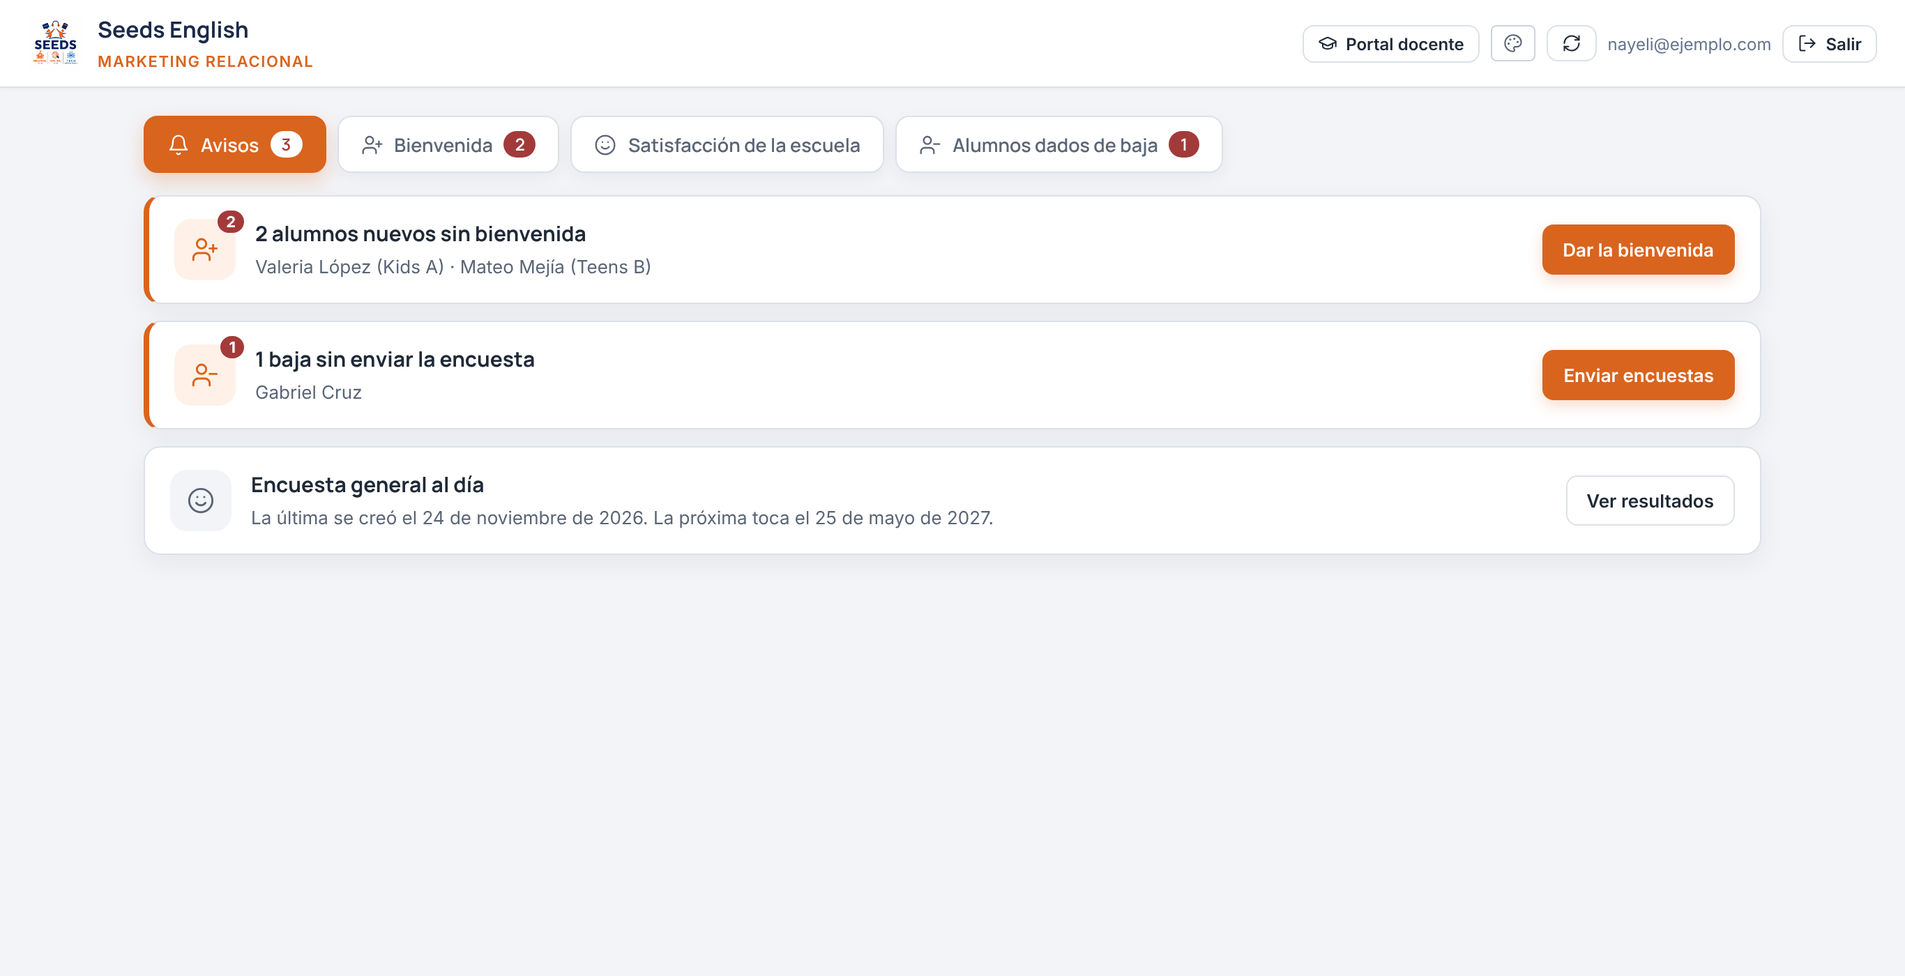
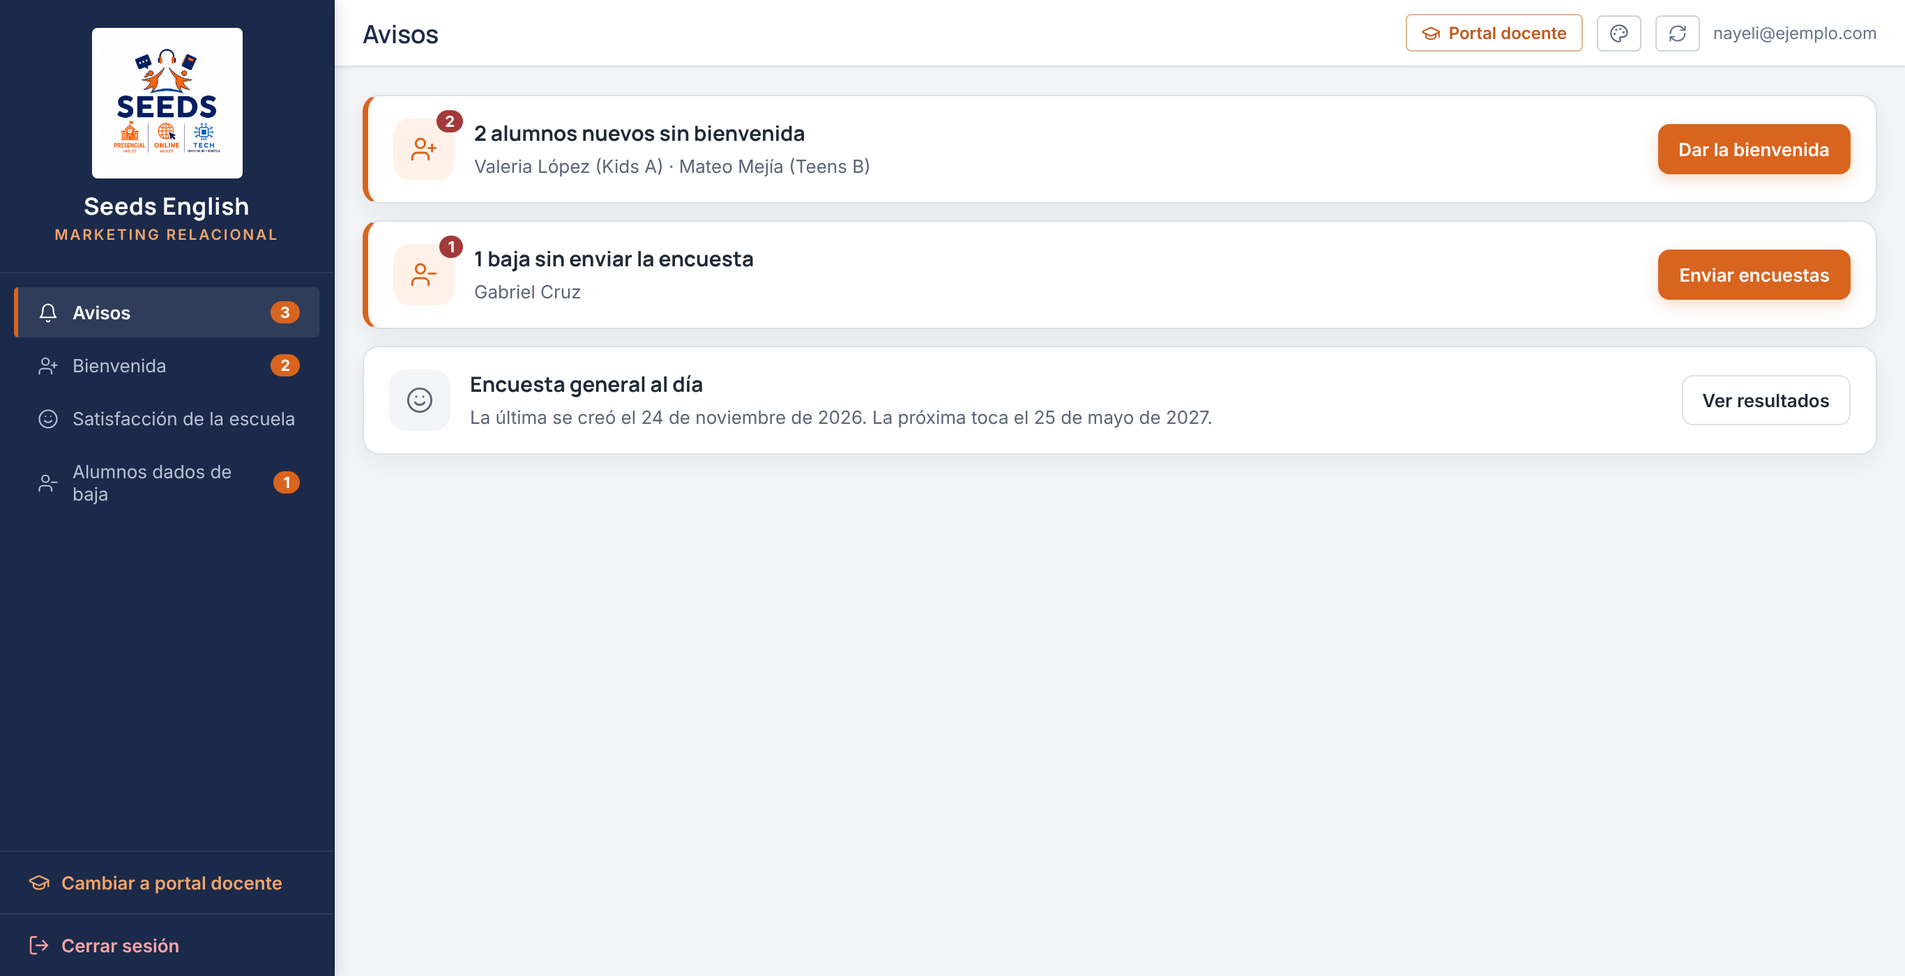
Marketing y portal docente con el mismo diseño de administración; encuestas con membrete de reportes
Claude-Session: https://claude.ai/code/session_01AxHPX21L8H8cCp28DDg5nG

diff --git a/src/marketing.jsx b/src/marketing.jsx
@@ -14,13 +14,12 @@
 // ════════════════════════════════════════════════════════════
 import { useState, useEffect, useMemo, useCallback } from "react";
 import { supabase } from "./supabaseClient";
-import { LOGO_SEEDS } from "./logo";
 import { BarraDescargas } from "./documentoFormal";
 import { useMarca } from "./marca";
 import { SelectorFondo } from "./fondo";
-import { EncuestasDesercion, useEncuestas, reporteMatricula, linkWhatsApp } from "./desercion";
+import { MembreteEncuesta, EncuestasDesercion, useEncuestas, reporteMatricula, linkWhatsApp } from "./desercion";
 import { DocenteApp } from "./docentes";
-import { LogOut, RefreshCw, GraduationCap, UserMinus, UserPlus, Smile, Plus, X, Bell } from "lucide-react";
+import { LogOut, RefreshCw, GraduationCap, UserMinus, UserPlus, Smile, Plus, Bell, Menu as MenuIcon, ChevronLeft as AtrasIcon } from "lucide-react";
 import { Avisos, Bienvenida, useMarketingDatos, nuevosSinBienvenida, DIAS_ENCUESTA_GENERAL } from "./marketingAvisos";
 import "./resumenMes.css";
 import "./desercion.css";
@@ -88,28 +87,39 @@ function useSatisfaccion() {
 }
 
 // ── Panel principal (lo usan Marketing y administración) ──
-export function MarketingPanel({ data, showToast }) {
-  const [tab, setTab] = useState("avisos");
+// Estado compartido de Marketing (avisos, bienvenidas, encuestas) y conteos
+export function useMarketingEstado(data) {
   const encuestas = useEncuestas();
   const md = useMarketingDatos();
-  const irA = (t) => { setTab(t); if (t === "avisos") { md.cargar(); encuestas.recargar(); } };
-  const bajas = data.alumnos.filter((a) => a.estado === "inactivo").length;
   const nNuevos = md.falta ? 0 : nuevosSinBienvenida(data, md).length;
   const nBajas = (encuestas.lista || []).filter((e) => !e.enviada_en && !e.respondida_en).length;
-  const nAvisos = nNuevos + nBajas + (md.listo && (!md.ultimaEncuesta || Date.now() - new Date(md.ultimaEncuesta).getTime() >= DIAS_ENCUESTA_GENERAL * 86400000) ? 1 : 0);
-  const TABS = [
-    ["avisos", Bell, "Avisos", nAvisos, true],
-    ["bienvenida", UserPlus, "Bienvenida", nNuevos, true],
-    ["satisfaccion", Smile, "Satisfacción de la escuela", 0],
-    ["bajas", UserMinus, "Alumnos dados de baja", nBajas || bajas, nBajas > 0],
-  ];
+  const tocaGeneral = md.listo && (!md.ultimaEncuesta || Date.now() - new Date(md.ultimaEncuesta).getTime() >= DIAS_ENCUESTA_GENERAL * 86400000);
+  const recargar = () => { md.cargar(); encuestas.recargar(); };
+  return { encuestas, md, recargar, cuentas: { avisos: nNuevos + nBajas + (tocaGeneral ? 1 : 0), bienvenida: nNuevos, bajas: nBajas, satisfaccion: 0 } };
+}
+
+export const PAGINAS_MARKETING = [
+  { id: "avisos", label: "Avisos", icon: Bell },
+  { id: "bienvenida", label: "Bienvenida", icon: UserPlus },
+  { id: "satisfaccion", label: "Satisfacción de la escuela", icon: Smile },
+  { id: "bajas", label: "Alumnos dados de baja", icon: UserMinus },
+];
+
+// Panel de Marketing. Administración lo ve con pestañas arriba; la cuenta de
+// Marketing lo ve con el menú lateral (tab y onTab vienen de MarketingApp).
+export function MarketingPanel({ data, showToast, estado, tab: tabExt, onTab }) {
+  const [tabInt, setTabInt] = useState("avisos");
+  const propio = useMarketingEstado(data);
+  const { encuestas, md, cuentas, recargar } = estado || propio;
+  const tab = tabExt || tabInt;
+  const irA = (t) => { (onTab || setTabInt)(t); if (t === "avisos") recargar(); };
   return (
     <div className="mk">
-      <div className="mk-tabs" role="tablist">
-        {TABS.map(([id, I, t, n, alerta]) => (
-          <button key={id} role="tab" aria-selected={tab === id} className={tab === id ? "on" : ""} onClick={() => irA(id)}><I size={16} />{t}{n > 0 && <span className={"mk-cont" + (alerta ? " alerta" : "")}>{n}</span>}</button>
+      {!tabExt && <div className="mk-tabs" role="tablist">
+        {PAGINAS_MARKETING.map(({ id, icon: I, label }) => (
+          <button key={id} role="tab" aria-selected={tab === id} className={tab === id ? "on" : ""} onClick={() => irA(id)}><I size={16} />{label}{cuentas[id] > 0 && <span className="mk-cont alerta">{cuentas[id]}</span>}</button>
         ))}
-      </div>
+      </div>}
       {tab === "avisos" && <Avisos data={data} md={md} encuestas={encuestas} irA={irA} />}
       {tab === "bienvenida" && <Bienvenida data={data} md={md} showToast={showToast} />}
       {tab === "bajas" && (
@@ -388,11 +398,23 @@ export function reporteSatisfaccion(camp, filas, data) {
 }
 
 // ── App propia del rol Marketing relacional ──
+// Mismo diseño que el panel de administración: menú lateral con el logo,
+// cabecera con título, fondo, actualizar y correo, y menú deslizable en celular.
 export function MarketingApp({ session, perfil }) {
   const marca = useMarca();
   const [datos, setDatos] = useState(null);
   const [vistaDocente, setVistaDocente] = useState(false);
   const [toast, setToast] = useState(null);
+  const [menu, setMenu] = useState(false);
+  const [page, setPageRaw] = useState("avisos");
+  const escritorio = typeof window !== "undefined" && window.innerWidth > 768;
+  // Historial: botón "atrás" del teléfono vuelve a la página anterior
+  const setPage = useCallback((p) => { setPageRaw((act) => { if (p !== act) history.pushState({ seedsMk: p }, ""); return p; }); }, []);
+  useEffect(() => {
+    if (!history.state?.seedsMk) history.replaceState({ seedsMk: "avisos" }, "");
+    const volver = (e) => setPageRaw(e.state?.seedsMk || "avisos");
+    window.addEventListener("popstate", volver); return () => window.removeEventListener("popstate", volver);
+  }, []);
   const avisar = (msg, type = "success") => { setToast({ msg, type }); setTimeout(() => setToast(null), 3500); };
   const cargar = useCallback(async () => {
     const [s, a, p] = await Promise.all([
@@ -405,24 +427,51 @@ export function MarketingApp({ session, perfil }) {
     setDatos({ secciones: s.data || [], alumnos: a.data || [], padres: p.data || [] });
   }, []);
   useEffect(() => { cargar(); }, [cargar]);
+  const estado = useMarketingEstado(datos || { alumnos: [], secciones: [], padres: [] });
   if (vistaDocente) return <DocenteApp session={session} perfil={perfil} onVolver={() => setVistaDocente(false)} />;
+  const actual = PAGINAS_MARKETING.find((n) => n.id === page) || PAGINAS_MARKETING[0];
+  const ir = (id) => { setPage(id); setMenu(false); if (id === "avisos") estado.recargar(); };
   return (
-    <div className="mk-app">
-      <header className="vidrio-barra mk-barra">
-        <div className="mk-marca">
-          <img src={marca.logoSrc} alt="" />
-          <div><b>{marca.nombreO("Seeds English")}</b><span>Marketing relacional</span></div>
+    <div style={{ display: "flex", height: "100vh", background: "transparent" }}>
+      {menu && <div onClick={() => setMenu(false)} style={{ position: "fixed", inset: 0, background: "rgba(15,23,42,0.25)", backdropFilter: "blur(4px)", WebkitBackdropFilter: "blur(4px)", zIndex: 40 }} />}
+      <aside className="vidrio-menu" style={{ position: "fixed", left: menu ? 10 : -280, top: 10, bottom: 10, width: 240, color: "#fff", zIndex: 50, transition: "left 0.25s cubic-bezier(.2,.8,.2,1)", display: "flex", flexDirection: "column", borderRadius: 6, overflow: "hidden", ...(escritorio ? { position: "relative", left: 0, top: 0, bottom: 0, margin: 0, borderRadius: 0 } : {}) }}>
+        <div style={{ padding: "20px 16px", borderBottom: "1px solid rgba(255,255,255,.08)", display: "flex", flexDirection: "column", alignItems: "center", gap: 8 }}>
+          <div style={{ background: "#fff", borderRadius: 4, padding: 6 }}><img src={marca.logoSrc} alt={marca.nombreO("Seeds English")} style={{ width: 96, height: 96, objectFit: "contain", display: "block" }} /></div>
+          <div style={{ textAlign: "center" }}>
+            <div className="titulo-marca" style={{ fontWeight: 700, fontSize: 17, color: "#fff", letterSpacing: .3 }}>{marca.nombreO("Seeds English")}</div>
+            <div style={{ fontSize: 10.5, color: "#F0A46A", textTransform: "uppercase", letterSpacing: 1.4, marginTop: 3, fontWeight: 600 }}>Marketing relacional</div>
+          </div>
         </div>
-        <div className="mk-barra-der">
-          {perfil.maestro_id && <button className="dm-btn sec chico" onClick={() => setVistaDocente(true)}><GraduationCap size={14} />Portal docente</button>}
-          <SelectorFondo />
-          <button className="dm-btn sec chico" onClick={cargar} title="Actualizar" aria-label="Actualizar"><RefreshCw size={14} /></button>
-          <div className="hide-mobile mk-quien">{session.user.email}</div>
-          <button className="dm-btn sec chico" onClick={() => supabase.auth.signOut()}><LogOut size={14} />Salir</button>
-        </div>
-      </header>
-      <main className="mk-main">{datos ? <MarketingPanel data={datos} showToast={avisar} /> : <p className="dm-nota">Cargando…</p>}</main>
-      {toast && <div className={"mk-toast " + toast.type}>{toast.msg}<button onClick={() => setToast(null)} aria-label="Cerrar"><X size={14} /></button></div>}
+        <nav style={{ flex: 1, padding: "10px 10px", overflowY: "auto" }}>
+          {PAGINAS_MARKETING.map((n) => { const Icon = n.icon; const a = page === n.id; const c = estado.cuentas[n.id]; return (
+            <button key={n.id} className={"menu-item" + (a ? " activo" : "")} onClick={() => ir(n.id)} style={{ display: "flex", alignItems: "center", gap: 10, width: "100%", padding: "10px 14px", marginBottom: 2, border: "none", borderLeft: a ? "3px solid #D9641E" : "3px solid transparent", borderRadius: 3, cursor: "pointer", background: a ? "rgba(255,255,255,.09)" : "transparent", color: a ? "#fff" : "#B8C2D3", fontSize: 13, fontWeight: a ? 600 : 400, textAlign: "left", fontFamily: "inherit" }}>
+              <Icon size={15} /><span style={{ flex: 1 }}>{n.label}</span>{c > 0 && <span className="mk-menu-cont">{c}</span>}
+            </button>
+          ); })}
+        </nav>
+        {perfil.maestro_id && <button className="menu-vista-docente" onClick={() => { setMenu(false); setVistaDocente(true); }} style={{ display: "flex", alignItems: "center", gap: 8, padding: "14px 20px", border: "none", borderTop: "1px solid rgba(255,255,255,.08)", background: "transparent", color: "#F0A46A", cursor: "pointer", fontSize: 13, fontWeight: 600, fontFamily: "inherit" }}><GraduationCap size={16} />Cambiar a portal docente</button>}
+        <button onClick={() => supabase.auth.signOut()} style={{ display: "flex", alignItems: "center", gap: 8, padding: "14px 20px", border: "none", borderTop: "1px solid rgba(255,255,255,.08)", background: "transparent", color: "#FCA5A5", cursor: "pointer", fontSize: 13, fontFamily: "inherit" }}><LogOut size={16} />Cerrar sesión</button>
+      </aside>
+      <main style={{ flex: 1, display: "flex", flexDirection: "column", minWidth: 0 }}>
+        <header className="vidrio-barra barra-app" style={{ padding: "10px 20px", margin: 0, borderRadius: 0, display: "flex", alignItems: "center", justifyContent: "space-between", flexShrink: 0 }}>
+          <div style={{ display: "flex", alignItems: "center", gap: 12 }}>
+            {!escritorio && page !== "avisos" && <button onClick={() => history.back()} title="Atrás" aria-label="Atrás" className="boton-atras"><AtrasIcon size={20} /></button>}
+            {!escritorio && <button onClick={() => setMenu(true)} aria-label="Abrir menú" title="Menú" className="boton-menu"><MenuIcon size={22} /></button>}
+            <h1 className="titulo-barra" style={{ fontSize: 18, fontWeight: 600, color: "#1B2A4A", margin: 0 }}>{actual.label}</h1>
+          </div>
+          <div style={{ display: "flex", alignItems: "center", gap: 10 }}>
+            {perfil.maestro_id && <button className="boton-vista-docente" onClick={() => setVistaDocente(true)} title="Cambiar al portal docente" aria-label="Portal docente" style={{ display: "flex", alignItems: "center", gap: 6, background: "#fff", border: "1px solid #E7B48F", borderRadius: 4, cursor: "pointer", padding: "5px 10px", color: "#C2571A", fontSize: 12, fontWeight: 600, fontFamily: "inherit" }}><GraduationCap size={14} /><span className="txt-vista-docente">Portal docente</span></button>}
+            <SelectorFondo />
+            <button className="boton-refrescar" onClick={() => { cargar(); estado.recargar(); avisar("Datos actualizados"); }} title="Refrescar datos" aria-label="Refrescar datos" style={{ background: "#fff", border: "1px solid #CDD3DC", borderRadius: 4, cursor: "pointer", padding: "5px 8px", display: "flex", alignItems: "center" }}><RefreshCw size={14} color="#64748B" /></button>
+            <div style={{ fontSize: 12, color: "#64748B" }} className="hide-mobile">{session.user.email}</div>
+          </div>
+        </header>
+        <div style={{ flex: 1, overflow: "auto", padding: 20 }}>{datos ? <MarketingPanel data={datos} showToast={avisar} estado={estado} tab={actual.id} onTab={ir} /> : <p className="dm-nota">Cargando…</p>}</div>
+      </main>
+      {toast && <div className="vidrio-ahumado aviso-flotante" role="status">
+        <span className="aviso-icono" style={{ background: toast.type === "success" ? "#10B981" : "#EF4444" }}>{toast.type === "success" ? "✓" : "!"}</span>
+        <span>{toast.msg}</span>
+      </div>}
     </div>
   );
 }
@@ -471,7 +520,7 @@ export function SatisfaccionPublica({ token }) {
   return (
     <div className="ep">
       <div className="ep-tarjeta">
-        <div className="ep-marca"><img src={LOGO_SEEDS} alt="" /><div><b>Seeds English</b><span>Encuesta de satisfacción</span></div></div>
+        <MembreteEncuesta titulo="Encuesta de satisfacción" />
         {cuerpo}
       </div>
     </div>

diff --git a/src/docentes.jsx b/src/docentes.jsx
@@ -11,6 +11,8 @@ import { ParteMensual } from "./parteMensual";
 import { useRecorrido, Recorrido, BotonAyuda, PASOS_DOCENTE } from "./recorrido";
 import { useModulos } from "./modulos";
 import { useMarca } from "./marca";
+import "./navegacion.css";
+import "./inicioSoft.css";
 
 // Pestañas del portal docente (administración puede cambiarles el nombre en Sistema y respaldos)
 export const PESTANAS_DOCENTE = [
@@ -188,7 +190,7 @@ export function DocenteApp({ session, perfil, onVolver }) {
       {menu && <div onClick={() => setMenu(false)} style={{ position: "fixed", inset: 0, background: "rgba(15,23,42,0.25)", backdropFilter: "blur(4px)", WebkitBackdropFilter: "blur(4px)", zIndex: 40 }} />}
       <aside className="vidrio-menu" style={{ position: "fixed", left: menu ? 10 : -280, top: 10, bottom: 10, width: 240, color: "#fff", zIndex: 50, transition: "left 0.25s cubic-bezier(.2,.8,.2,1)", display: "flex", flexDirection: "column", borderRadius: 6, overflow: "hidden", ...(escritorio ? { position: "relative", left: 0, top: 0, bottom: 0, margin: 0, borderRadius: 0 } : {}) }}>
         <div style={{ padding: "20px 16px", borderBottom: "1px solid rgba(255,255,255,.08)", display: "flex", flexDirection: "column", alignItems: "center", gap: 8 }}>
-          <div style={{ background: "#fff", borderRadius: 4, padding: 6 }}><img src={marca.logoSrc} alt={marca.nombreO("Seeds English")} style={{ width: 88, height: 88, objectFit: "contain" }} /></div>
+          <div style={{ background: "#fff", borderRadius: 4, padding: 6 }}><img src={marca.logoSrc} alt={marca.nombreO("Seeds English")} style={{ width: 96, height: 96, objectFit: "contain", display: "block" }} /></div>
           <div style={{ textAlign: "center" }}>
             <div className="titulo-marca" style={{ fontWeight: 700, fontSize: 17, color: "#fff", letterSpacing: .3 }}>{marca.nombreO("Seeds English")}</div>
             <div style={{ fontSize: 10.5, color: "#F0A46A", textTransform: "uppercase", letterSpacing: 1.4, marginTop: 3, fontWeight: 600 }}>Portal docente</div>
@@ -250,19 +252,25 @@ function InicioDocente({ datos, setPage }) {
     { id: "reflections", t: "Escribir reflection", d: "Anota el avance o la conducta de un alumno", icon: MessageSquare },
     { id: "solicitudes", t: "Hacer una solicitud", d: "Pide algo a administración", icon: Inbox },
   ];
+  // Mismas tarjetas Soft UI que las categorías del panel de administración
   return (<div>
-    <div style={{ ...card, background: "#1B2A4A", color: "#fff", border: "none", borderTop: "3px solid #D9641E" }}>
-      <div style={{ fontSize: 12, color: "#FDBA74", fontWeight: 700, letterSpacing: 1, textTransform: "uppercase" }}>Bienvenido</div>
-      <div style={{ fontSize: 22, fontWeight: 800, marginTop: 2 }}>{datos.maestro?.nombre}</div>
-      <div style={{ fontSize: 13, color: "#CBD5E1", marginTop: 4 }}>{datos.secciones.length} {datos.secciones.length === 1 ? "grupo" : "grupos"} · {activos.length} alumnos activos</div>
-    </div>
-    <div style={{ display: "grid", gridTemplateColumns: "repeat(auto-fit,minmax(220px,1fr))", gap: 12, marginBottom: 16 }}>
-      {accesos.map((a) => { const Icon = a.icon; return (
-        <button key={a.id} onClick={() => setPage(a.id)} style={{ ...card, margin: 0, textAlign: "left", cursor: "pointer", display: "flex", gap: 12, alignItems: "center", fontFamily: "inherit" }}>
-          <div style={{ background: "#FFF7ED", borderRadius: 10, padding: 10 }}><Icon size={22} color={NAR} /></div>
-          <div><div style={{ fontSize: 14, fontWeight: 700, color: "#1E293B" }}>{a.t}</div><div style={{ fontSize: 12, color: "#64748B" }}>{a.d}</div></div>
-        </button>
-      ); })}
+    <div className="nav-pagina" style={{ padding: 0 }}>
+      <header className="nav-encabezado">
+        <div className="nav-eyebrow"><Home size={14} />Portal docente · {datos.secciones.length} {datos.secciones.length === 1 ? "grupo" : "grupos"} · {activos.length} alumnos activos</div>
+        <h2 className="nav-titulo">Hola, {(datos.maestro?.nombre || "").split(" ")[0]}</h2>
+        <p className="nav-intro">Todo lo de tus clases en un solo lugar. Toca una tarjeta para entrar.</p>
+      </header>
+      <div className="nav-rejilla">
+        {accesos.map((a, i) => { const Icon = a.icon; return (
+          <button key={a.id} type="button" className="nav-tarjeta" onClick={() => setPage(a.id)}>
+            <span className="nav-linea" aria-hidden="true" />
+            <span className="nav-cabeza"><span className="nav-num" aria-hidden="true">{String(i + 1).padStart(2, "0")}</span><span className="nav-icono" aria-hidden="true"><Icon size={18} /></span></span>
+            <span className="nav-nombre">{a.t}</span>
+            <span className="nav-texto">{a.d}</span>
+            <span className="nav-entrar">Entrar<span className="nav-flecha" aria-hidden="true">→</span></span>
+          </button>
+        ); })}
+      </div>
     </div>
     <div style={card}>
       <h3 style={{ fontSize: 14, fontWeight: 700, color: "#1E293B", margin: "0 0 10px" }}>Mis grupos</h3>

diff --git a/src/desercion.jsx b/src/desercion.jsx
@@ -19,6 +19,7 @@ import { useState, useEffect, useMemo, useCallback } from "react";
 import { supabase } from "./supabaseClient";
 import { LOGO_SEEDS } from "./logo";
 import { BarraDescargas } from "./documentoFormal";
+import { useMarca } from "./marca";
 import "./resumenMes.css";
 import "./desercion.css";
 
@@ -283,6 +284,22 @@ export function EncuestasDesercion({ data, filterSec, encuestas, abiertoInicial 
   );
 }
 
+// ── Membrete de las encuestas que abre el padre ──
+// Mismo estándar de los reportes ("A · membrete centrado"): logo, nombre de
+// la institución, título del documento y franja gris con la fecha.
+export function MembreteEncuesta({ titulo }) {
+  const m = useMarca();
+  const hoy = new Date().toLocaleDateString("es-HN", { day: "numeric", month: "long", year: "numeric" });
+  return (
+    <header className="ep-membrete">
+      <img src={m.logoSrc || LOGO_SEEDS} alt="" />
+      <div className="ep-m-nombre">{m.nombreO("Seeds English School")}</div>
+      <div className="ep-m-titulo">{titulo}</div>
+      <div className="ep-m-franja">{hoy}</div>
+    </header>
+  );
+}
+
 // ── Página pública que abre el padre ──
 export function EncuestaPublica({ token }) {
   const [info, setInfo] = useState(undefined);
@@ -347,7 +364,7 @@ export function EncuestaPublica({ token }) {
   return (
     <div className="ep">
       <div className="ep-tarjeta">
-        <div className="ep-marca"><img src={LOGO_SEEDS} alt="" /><div><b>Seeds English</b><span>Encuesta breve</span></div></div>
+        <MembreteEncuesta titulo="Encuesta de salida" />
         {cuerpo}
       </div>
     </div>

diff --git a/src/desercion.css b/src/desercion.css
@@ -79,3 +79,13 @@ html[data-fondo="oscuro"] .ep-txt { color: #B8BEC6; }
 html[data-fondo="oscuro"] .ep-op, html[data-fondo="oscuro"] .ep-input { background: #33363B; border-color: #40444A; color: #E9EDEF; }
 html[data-fondo="oscuro"] .ep-op.sel { background: #3A2D22; }
 .dm-cab-der { display: flex; gap: 8px; align-items: center; flex-wrap: wrap; }
+
+/* Membrete centrado de las encuestas (mismo estándar que los reportes) */
+.ep-membrete { text-align: center; margin: -4px 0 20px; }
+.ep-membrete img { width: 84px; height: 84px; object-fit: contain; display: block; margin: 0 auto 8px; background: #fff; border-radius: 12px; }
+.ep-m-nombre { font: 700 18px "IBM Plex Sans", Manrope, Inter, sans-serif; color: #1B2A4A; letter-spacing: .2px; }
+.ep-m-sub { font: 400 12px "IBM Plex Sans", Inter, sans-serif; color: #5B6576; margin-top: 2px; }
+.ep-m-titulo { font: 600 14px "IBM Plex Sans", Inter, sans-serif; color: #D9641E; text-transform: uppercase; letter-spacing: 1.2px; margin-top: 10px; }
+.ep-m-franja { margin: 10px -24px 0; padding: 6px 12px; background: #F1F3F6; border-top: 1px solid #C9D1DC; border-bottom: 1px solid #C9D1DC; font: 400 11.5px "IBM Plex Sans", Inter, sans-serif; color: #5B6576; }
+html[data-fondo="oscuro"] .ep-m-nombre { color: #E9EDEF; }
+html[data-fondo="oscuro"] .ep-m-franja { background: #33363B; border-color: #40444A; color: #B8BEC6; }

diff --git a/src/marketing.css b/src/marketing.css
@@ -106,3 +106,4 @@ html[data-fondo="oscuro"] .mk-aviso.on .mk-aviso-i { background: #3A2D22; }
 .mk-check { display: inline-flex; gap: 6px; align-items: center; font-size: 13px; cursor: pointer; }
 .mk-check input { accent-color: #D9641E; }
 .mk-sel-chico { border: 1px solid var(--rm-borde); border-radius: 6px; padding: 4px 6px; font: 12.5px Inter, sans-serif; background: var(--rm-sup); color: var(--rm-texto); }
+.mk-menu-cont { background: #D9641E; color: #fff; border-radius: 10px; font: 700 11px Inter, sans-serif; padding: 1px 7px; }
